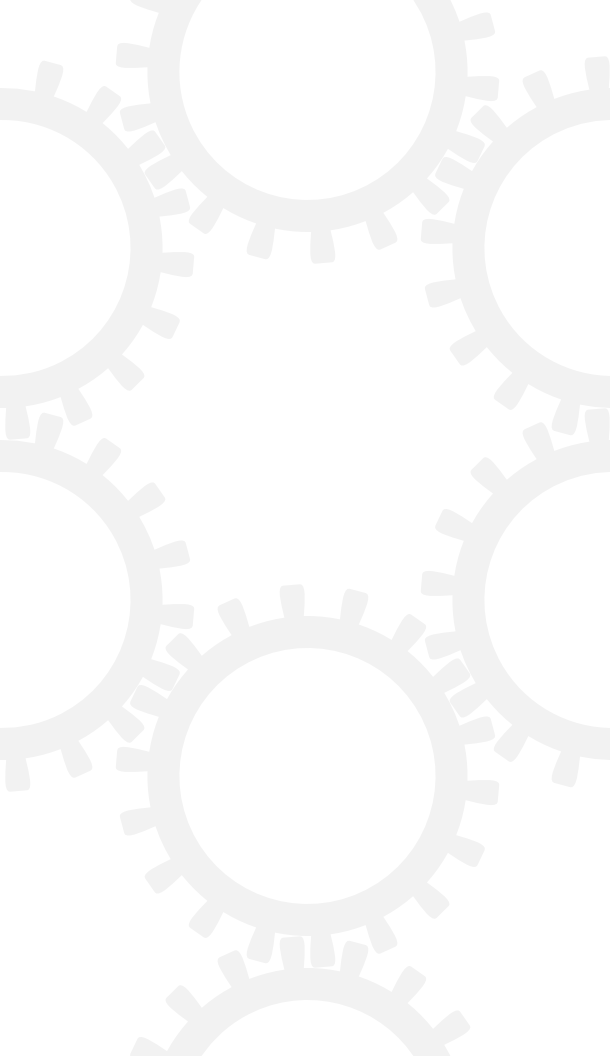
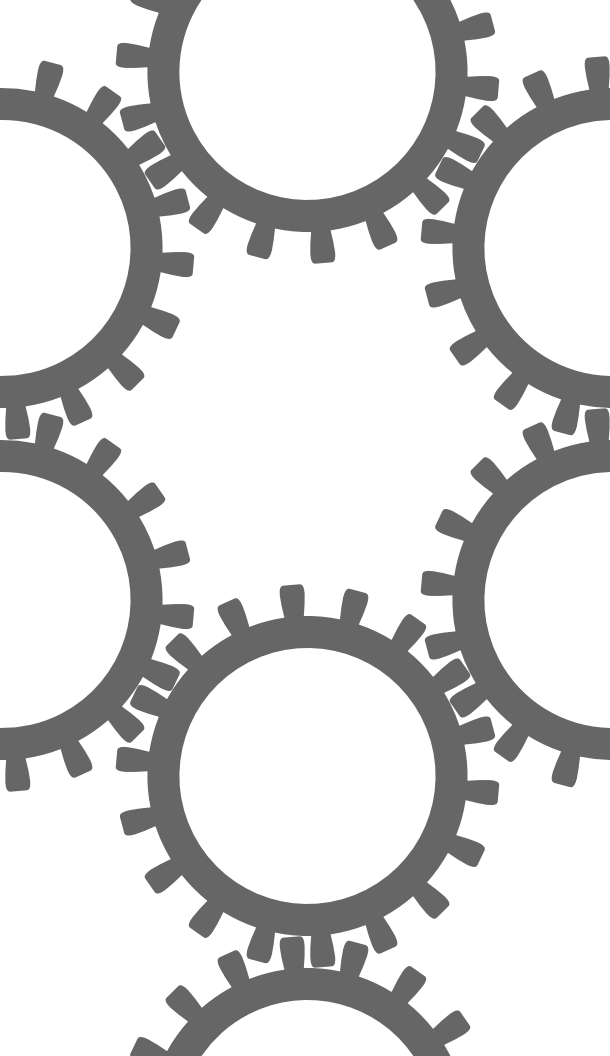
Large improvements made to the website, artwise and codewise.

Changed region(s): [[0.0, 0.0, 1.0, 1.0]]

diff --git a/website/main.html b/website/main.html
@@ -1,77 +1,110 @@
-<HTML>
-<HEAD>
-<STYLE TYPE="text/css">
-.tiled_bg {
-  background-image: url(res/images/gearcrate_webpage_bg.png); background-repeat: repeat;
-  background-attachment:fixed;}
-</STYLE>
-</HEAD>
-<BODY CLASS = "tiled_bg">
-<img src="images/gearcrate_logo128.png" alt="res/gearcrate.net"/>
-<p>Some text...</p>
-<p>Some text...</p>
-<p>Some text...</p>
-<p>Some text...</p>
-<p>Some text...</p>
-<p>Some text...</p>
-<p>Some text...</p>
-<p>Some text...</p>
-<p>Some text...</p>
-<p>Some text...</p>
-<p>Some text...</p>
-<p>Some text...</p>
-<p>Some text...</p>
-<p>Some text...</p>
-<p>Some text...</p>
-<p>Some text...</p>
-<p>Some text...</p>
-<p>Some text...</p>
-<p>Some text...</p>
-<p>Some text...</p>
-<p>Some text...</p>
-<p>Some text...</p>
-<p>Some text...</p>
-<p>Some text...</p>
-<p>Some text...</p>
-<p>Some text...</p>
-<p>Some text...</p>
-<p>Some text...</p>
-<p>Some text...</p>
-<p>Some text...</p>
-<p>Some text...</p>
-<p>Some text...</p>
-<p>Some text...</p>
-<p>Some text...</p>
-<p>Some text...</p>
-<p>Some text...</p>
-<p>Some text...</p>
-<p>Some text...</p>
-<p>Some text...</p>
-<p>Some text...</p>
-<p>Some text...</p>
-<p>Some text...</p>
-<p>Some text...</p>
-<p>Some text...</p>
-<p>Some text...</p>
-<p>Some text...</p>
-<p>Some text...</p>
-<p>Some text...</p>
-<p>Some text...</p>
-<p>Some text...</p>
-<p>Some text...</p>
-<p>Some text...</p>
-<p>Some text...</p>
-<p>Some text...</p>
-<p>Some text...</p>
-<p>Some text...</p>
-<p>Some text...</p>
-<p>Some text...</p>
-<p>Some text...</p>
-<p>Some text...</p>
-<p>Some text...</p>
-<p>Some text...</p>
-<p>Some text...</p>
-<p>Some text...</p>
-<p>Some text...</p>
-</BODY>
-</HTML>
+<html>
+<!This is a comment./>
+<head>
+    <link rel  = "stylesheet"
+          type = "text/css"
+          href = "style.css"/>
+</head>
+
+<body>
+    <div id = "container">
+        <div id="site_title">
+            <img src   = "res/images/gearcrate_logo128.png" 
+                 alt   = "res/images/gearcrate.net"
+                 style = "float:left"/>
+        </div>
+        
+        <div>
+            <ul class = "navbar">
+                <li><a href = "main.html">Home</a></li>
+                <li><a href = "about.html">About</a></li>
+                <li><a href = "faq.html">FAQ</a></li>
+            </ul>
+            
+            <div id = "content_area">
+                <p>The morning of June 27th was clear and sunny, with the fresh warmth of a full-summer day; the flowers were blossoming profusely and the grass was richly green. The people of the village began to gather in the square, between the post office and the bank, around ten o'clock; in some towns there were so many people that the lottery took two days and had to be started on June 2th. but in this village, where there were only about three hundred people, the whole lottery took less than two hours, so it could begin at ten o'clock in the morning and still be through in time to allow the villagers to get home for noon dinner.</p>
+                <p>The children assembled first, of course. School was recently over for the summer, and the feeling of liberty sat uneasily on most of them; they tended to gather together quietly for a while before they broke into boisterous play. and their talk was still of the classroom and the teacher, of books and reprimands. Bobby Martin had already stuffed his pockets full of stones, and the other boys soon followed his example, selecting the smoothest and roundest stones; Bobby and Harry Jones and Dickie Delacroix-- the villagers pronounced this name "Dellacroy"--eventually made a great pile of stones in one corner of the square and guarded it against the raids of the other boys. The girls stood aside, talking among themselves, looking over their shoulders at the boys. and the very small children rolled in the dust or clung to the hands of their older brothers or sisters.</p>
+                <p>Soon the men began to gather. surveying their own children, speaking of planting and rain, tractors and taxes. They stood together, away from the pile of stones in the corner, and their jokes were quiet and they smiled rather than laughed. The women, wearing faded house dresses and sweaters, came shortly after their menfolk. They greeted one another and exchanged bits of gossip as they went to join their husbands. Soon the women, standing by their husbands, began to call to their children, and the children came reluctantly, having to be called four or five times. Bobby Martin ducked under his mother's grasping hand and ran, laughing, back to the pile of stones. His father spoke up sharply, and Bobby came quickly and took his place between his father and his oldest brother.</p>
+                <p>The lottery was conducted--as were the square dances, the teen club, the Halloween program--by Mr. Summers. who had time and energy to devote to civic activities. He was a round-faced, jovial man and he ran the coal business, and people were sorry for him. because he had no children and his wife was a scold. When he arrived in the square, carrying the black wooden box, there was a murmur of conversation among the villagers, and he waved and called. "Little late today, folks." The postmaster, Mr. Graves, followed him, carrying a three- legged stool, and the stool was put in the center of the square and Mr. Summers set the black box down on it. The villagers kept their distance, leaving a space between themselves and the stool. and when Mr. Summers said, "Some of you fellows want to give me a hand?" there was a hesitation before two men. Mr. Martin and his oldest son, Baxter. came forward to hold the box steady on the stool while Mr. Summers stirred up the papers inside it.</p>
+                <p>The original paraphernalia for the lottery had been lost long ago, and the black box now resting on the stool had been put into use even before Old Man Warner, the oldest man in town, was born. Mr. Summers spoke frequently to the villagers about making a new box, but no one liked to upset even as much tradition as was represented by the black box. There was a story that the present box had been made with some pieces of the box that had preceded it, the one that had been constructed when the first people settled down to make a village here. Every year, after the lottery, Mr. Summers began talking again about a new box, but every year the subject was allowed to fade off without anything's being done. The black box grew shabbier each year: by now it was no longer completely black but splintered badly along one side to show the original wood color, and in some places faded or stained.</p>
+                <p>Mr. Martin and his oldest son, Baxter, held the black box securely on the stool until Mr. Summers had stirred the papers thoroughly with his hand. Because so much of the ritual had been forgotten or discarded, Mr. Summers had been successful in having slips of paper substituted for the chips of wood that had been used for generations. Chips of wood, Mr. Summers had argued. had been all very well when the village was tiny, but now that the population was more than three hundred and likely to keep on growing, it was necessary to use something that would fit more easily into he black box. The night before the lottery, Mr. Summers and Mr. Graves made up the slips of paper and put them in the box, and it was then taken to the safe of Mr. Summers' coal company and locked up until Mr. Summers was ready to take it to the square next morning. The rest of the year, the box was put way, sometimes one place, sometimes another; it had spent one year in Mr. Graves's barn and another year underfoot in the post office. and sometimes it was set on a shelf in the Martin grocery and left there.</p>
+                <p>There was a great deal of fussing to be done before Mr. Summers declared the lottery open. There were the lists to make up--of heads of families. heads of households in each family. members of each household in each family. There was the proper swearing-in of Mr. Summers by the postmaster, as the official of the lottery; at one time, some people remembered, there had been a recital of some sort, performed by the official of the lottery, a perfunctory. tuneless chant that had been rattled off duly each year; some people believed that the official of the lottery used to stand just so when he said or sang it, others believed that he was supposed to walk among the people, but years and years ago this p3rt of the ritual had been allowed to lapse. There had been, also, a ritual salute, which the official of the lottery had had to use in addressing each person who came up to draw from the box, but this also had changed with time, until now it was felt necessary only for the official to speak to each person approaching. Mr. Summers was very good at all this; in his clean white shirt and blue jeans. with one hand resting carelessly on the black box. he seemed very proper and important as he talked interminably to Mr. Graves and the Martins.</p>
+                <p>Just as Mr. Summers finally left off talking and turned to the assembled villagers, Mrs. Hutchinson came hurriedly along the path to the square, her sweater thrown over her shoulders, and slid into place in the back of the crowd. "Clean forgot what day it was," she said to Mrs. Delacroix, who stood next to her, and they both laughed softly. "Thought my old man was out back stacking wood," Mrs. Hutchinson went on. "and then I looked out the window and the kids was gone, and then I remembered it was the twenty-seventh and came a-running." She dried her hands on her apron, and Mrs. Delacroix said, "You're in time, though. They're still talking away up there."</p>
+                <p>Mrs. Hutchinson craned her neck to see through the crowd and found her husband and children standing near the front. She tapped Mrs. Delacroix on the arm as a farewell and began to make her way through the crowd. The people separated good-humoredly to let her through: two or three people said. in voices just loud enough to be heard across the crowd, "Here comes your, Missus, Hutchinson," and "Bill, she made it after all." Mrs. Hutchinson reached her husband, and Mr. Summers, who had been waiting, said cheerfully. "Thought we were going to have to get on without you, Tessie." Mrs. Hutchinson said. grinning, "Wouldn't have me leave m'dishes in the sink, now, would you. Joe?," and soft laughter ran through the crowd as the people stirred back into position after Mrs. Hutchinson's arrival.</p>
+                <p>"Well, now." Mr. Summers said soberly, "guess we better get started, get this over with, so's we can go back to work. Anybody ain't here?"</p>
+                <p>"Dunbar." several people said. "Dunbar. Dunbar."</p>
+                <p>Mr. Summers consulted his list. "Clyde Dunbar." he said. "That's right. He's broke his leg, hasn't he? Who's drawing for him?"</p>
+                <p>"Me. I guess," a woman said. and Mr. Summers turned to look at her. "Wife draws for her husband." Mr. Summers said. "Don't you have a grown boy to do it for you, Janey?" Although Mr. Summers and everyone else in the village knew the answer perfectly well, it was the business of the official of the lottery to ask such questions formally. Mr. Summers waited with an expression of polite interest while Mrs. Dunbar answered.</p>
+                <p>"Horace's not but sixteen vet." Mrs. Dunbar said regretfully. "Guess I gotta fill in for the old man this year."</p>
+                <p>"Right." Sr. Summers said. He made a note on the list he was holding. Then he asked, "Watson boy drawing this year?"</p>
+                <p>A tall boy in the crowd raised his hand. "Here," he said. "I m drawing for my mother and me." He blinked his eyes nervously and ducked his head as several voices in the crowd said thin#s like "Good fellow, lack." and "Glad to see your mother's got a man to do it."</p>
+                <p>"Well," Mr. Summers said, "guess that's everyone. Old Man Warner make it?"</p>
+                <p>"Here," a voice said. and Mr. Summers nodded.</p>
+                <p>A sudden hush fell on the crowd as Mr. Summers cleared his throat and looked at the list. "All ready?" he called. "Now, I'll read the names--heads of families first--and the men come up and take a paper out of the box. Keep the paper folded in your hand without looking at it until everyone has had a turn. Everything clear?"</p>
+                <p>The people had done it so many times that they only half listened to the directions: most of them were quiet. wetting their lips. not looking around. Then Mr. Summers raised one hand high and said, "Adams." A man disengaged himself from the crowd and came forward. "Hi. Steve." Mr. Summers said. and Mr. Adams said. "Hi. Joe." They grinned at one another humorlessly and nervously. Then Mr. Adams reached into the black box and took out a folded paper. He held it firmly by one corner as he turned and went hastily back to his place in the crowd. where he stood a little apart from his family. not looking down at his hand.</p>
+                <p>"Allen." Mr. Summers said. "Anderson.... Bentham."</p>
+                <p>"Seems like there's no time at all between lotteries any more." Mrs. Delacroix said to Mrs. Graves in the back row.</p>
+                <p>"Seems like we got through with the last one only last week."</p>
+                <p>"Time sure goes fast.-- Mrs. Graves said.</p>
+                <p>"Clark.... Delacroix"</p>
+                <p>"There goes my old man." Mrs. Delacroix said. She held her breath while her husband went forward.</p>
+                <p>"Dunbar," Mr. Summers said, and Mrs. Dunbar went steadily to the box while one of the women said. "Go on. Janey," and another said, "There she goes."</p>
+                <p>"We're next." Mrs. Graves said. She watched while Mr. Graves came around from the side of the box, greeted Mr. Summers gravely and selected a slip of paper from the box. By now, all through the crowd there were men holding the small folded papers in their large hand. turning them over and over nervously Mrs. Dunbar and her two sons stood together, Mrs. Dunbar holding the slip of paper.</p>
+                <p>"Harburt.... Hutchinson."</p>
+                <p>"Get up there, Bill," Mrs. Hutchinson said. and the people near her laughed.</p>
+                <p>"Jones."</p>
+                <p>"They do say," Mr. Adams said to Old Man Warner, who stood next to him, "that over in the north village they're talking of giving up the lottery."</p>
+                <p>Old Man Warner snorted. "Pack of crazy fools," he said. "Listening to the young folks, nothing's good enough for them. Next thing you know, they'll be wanting to go back to living in caves, nobody work any more, live hat way for a while. Used to be a saying about 'Lottery in June, corn be heavy soon.' First thing you know, we'd all be eating stewed chickweed and acorns. There's always been a lottery," he added petulantly. "Bad enough to see young Joe Summers up there joking with everybody."</p>
+                <p>"Some places have already quit lotteries." Mrs. Adams said.</p>
+                <p>"Nothing but trouble in that," Old Man Warner said stoutly. "Pack of young fools."</p>
+                <p>"Martin." And Bobby Martin watched his father go forward. "Overdyke.... Percy."</p>
+                <p>"I wish they'd hurry," Mrs. Dunbar said to her older son. "I wish they'd hurry."</p>
+                <p>"They're almost through," her son said.</p>
+                <p>"You get ready to run tell Dad," Mrs. Dunbar said.</p>
+                <p>Mr. Summers called his own name and then stepped forward precisely and selected a slip from the box. Then he called, "Warner."</p>
+                <p>"Seventy-seventh year I been in the lottery," Old Man Warner said as he went through the crowd. "Seventy-seventh time."</p>
+                <p>"Watson" The tall boy came awkwardly through the crowd. Someone said, "Don't be nervous, Jack," and Mr. Summers said, "Take your time, son."</p>
+                <p>"Zanini."</p>
+                <p>After that, there was a long pause, a breathless pause, until Mr. Summers. holding his slip of paper in the air, said, "All right, fellows." For a minute, no one moved, and then all the slips of paper were opened. Suddenly, all the women began to speak at once, saving. "Who is it?," "Who's got it?," "Is it the Dunbars?," "Is it the Watsons?" Then the voices began to say, "It's Hutchinson. It's Bill," "Bill Hutchinson's got it."</p>
+                <p>"Go tell your father," Mrs. Dunbar said to her older son.</p>
+                <p>People began to look around to see the Hutchinsons. Bill Hutchinson was standing quiet, staring down at the paper in his hand. Suddenly. Tessie Hutchinson shouted to Mr. Summers. "You didn't give him time enough to take any paper he wanted. I saw you. It wasn't fair!"</p>
+                <p>"Be a good sport, Tessie." Mrs. Delacroix called, and Mrs. Graves said, "All of us took the same chance."</p>
+                <p>"Shut up, Tessie," Bill Hutchinson said.</p>
+                <p>"Well, everyone," Mr. Summers said, "that was done pretty fast, and now we've got to be hurrying a little more to get done in time." He consulted his next list. "Bill," he said, "you draw for the Hutchinson family. You got any other households in the Hutchinsons?"</p>
+                <p>"There's Don and Eva," Mrs. Hutchinson yelled. "Make them take their chance!"</p>
+                <p>"Daughters draw with their husbands' families, Tessie," Mr. Summers said gently. "You know that as well as anyone else."</p>
+                <p>"It wasn't fair," Tessie said.</p>
+                <p>"I guess not, Joe." Bill Hutchinson said regretfully. "My daughter draws with her husband's family; that's only fair. And I've got no other family except the kids."</p>
+                <p>"Then, as far as drawing for families is concerned, it's you," Mr. Summers said in explanation, "and as far as drawing for households is concerned, that's you, too. Right?"</p>
+                <p>"Right," Bill Hutchinson said.</p>
+                <p>"How many kids, Bill?" Mr. Summers asked formally.</p>
+                <p>"Three," Bill Hutchinson said.</p>
+                <p>"There's Bill, Jr., and Nancy, and little Dave. And Tessie and me."</p>
+                <p>"All right, then," Mr. Summers said. "Harry, you got their tickets back?"</p>
+                <p>Mr. Graves nodded and held up the slips of paper. "Put them in the box, then," Mr. Summers directed. "Take Bill's and put it in."</p>
+                <p>"I think we ought to start over," Mrs. Hutchinson said, as quietly as she could. "I tell you it wasn't fair. You didn't give him time enough to choose. Everybody saw that."</p>
+                <p>Mr. Graves had selected the five slips and put them in the box. and he dropped all the papers but those onto the ground. where the breeze caught them and lifted them off.</p>
+                <p>"Listen, everybody," Mrs. Hutchinson was saying to the people around her.</p>
+                <p>"Ready, Bill?" Mr. Summers asked. and Bill Hutchinson, with one quick glance around at his wife and children. nodded.</p>
+                <p>"Remember," Mr. Summers said. "take the slips and keep them folded until each person has taken one. Harry, you help little Dave." Mr. Graves took the hand of the little boy, who came willingly with him up to the box. "Take a paper out of the box, Davy." Mr. Summers said. Davy put his hand into the box and laughed. "Take just one paper." Mr. Summers said. "Harry, you hold it for him." Mr. Graves took the child's hand and removed the folded paper from the tight fist and held it while little Dave stood next to him and looked up at him wonderingly.</p>
+                <p>"Nancy next," Mr. Summers said. Nancy was twelve, and her school friends breathed heavily as she went forward switching her skirt, and took a slip daintily from the box "Bill, Jr.," Mr. Summers said, and Billy, his face red and his feet overlarge, near knocked the box over as he got a paper out. "Tessie," Mr. Summers said. She hesitated for a minute, looking around defiantly. and then set her lips and went up to the box. She snatched a paper out and held it behind her.</p>
+                <p>"Bill," Mr. Summers said, and Bill Hutchinson reached into the box and felt around, bringing his hand out at last with the slip of paper in it.</p>
+                <p>The crowd was quiet. A girl whispered, "I hope it's not Nancy," and the sound of the whisper reached the edges of the crowd.</p>
+                <p>"It's not the way it used to be." Old Man Warner said clearly. "People ain't the way they used to be."</p>
+                <p>"All right," Mr. Summers said. "Open the papers. Harry, you open little Dave's."</p>
+                <p>Mr. Graves opened the slip of paper and there was a general sigh through the crowd as he held it up and everyone could see that it was blank. Nancy and Bill. Jr.. opened theirs at the same time. and both beamed and laughed. turning around to the crowd and holding their slips of paper above their heads.</p>
+                <p>"Tessie," Mr. Summers said. There was a pause, and then Mr. Summers looked at Bill Hutchinson, and Bill unfolded his paper and showed it. It was blank.</p>
+                <p>"It's Tessie," Mr. Summers said, and his voice was hushed. "Show us her paper. Bill."</p>
+                <p>Bill Hutchinson went over to his wife and forced the slip of paper out of her hand. It had a black spot on it, the black spot Mr. Summers had made the night before with the heavy pencil in the coal company office. Bill Hutchinson held it up, and there was a stir in the crowd.</p>
+                <p>"All right, folks." Mr. Summers said. "Let's finish quickly."</p>
+                <p>Although the villagers had forgotten the ritual and lost the original black box, they still remembered to use stones. The pile of stones the boys had made earlier was ready; there were stones on the ground with the blowing scraps of paper that had come out of the box Delacroix selected a stone so large she had to pick it up with both hands and turned to Mrs. Dunbar. "Come on," she said. "Hurry up."</p>
+                <p>Mr. Dunbar had small stones in both hands, and she said. gasping for breath. "I can't run at all. You'll have to go ahead and I'll catch up with you."</p>
+                <p>The children had stones already. And someone gave little Davy Hutchinson few pebbles.</p>
+                <p>Tessie Hutchinson was in the center of a cleared space by now, and she held her hands out desperately as the villagers moved in on her. "It isn't fair," she said. A stone hit her on the side of the head. Old Man Warner was saying, "Come on, come on, everyone." Steve Adams was in the front of the crowd of villagers, with Mrs. Graves beside him.</p>
+                <p>"It isn't fair, it isn't right," Mrs. Hutchinson screamed, and then they were upon her. </p>
+            </div>
+        </div>
+    </div>
+</body>
+
+</html>

diff --git a/website/style.css b/website/style.css
@@ -1,117 +1,75 @@
-body {
-background-color:#333333;
-font-size:10pt;
-font-family:Arial;
-margin:0;
-padding:0;
-color:#FFFFFF;
+body {
+  background-image      : url(res/images/gearcrate_webpage_bg.png);
+  background-repeat     : repeat;
+  background-attachment : fixed;
+  text-align            : center;
+  padding               : 32px;
+  margin                : 0px;
+  min-width             : 800px;
+  font-family           : verdana;
 }
 
-#page {
-width:900px;
-background-image:url(images/page.png);
-margin:auto;
-padding:auto;
+div#container{
+  margin : 0px 0px;
+  text-align : left;
+  padding    : 16px;
+  background-color : rgb(240, 240, 240);
+  background-color : rgba(255, 255, 255, 0.95);
+  border-style : solid;
+  border-color : rgb(102, 102, 102);
+  border-width : 8px;
 }
 
-#header {
-clear:both;
-width:860px;
-height:100px;
-background-image:url(images/header.png);
-padding-top:30px;
-padding-left:40px;
+div#site_title{
+  display:block;
+  margin-left:auto;
+  margin-right:auto;
+  height: 128px;
+  padding-bottom: 16px;
+  border-bottom-color : rgb(102, 102, 102);
+  border-bottom-style : solid;
+  border-bottom-width : 2px;
 }
 
-#menulinks {
-clear:both;
-width:875px;
-height:46px;
-padding-left:25px;
-background-image:url(images/menulinks.png);
+ul.navbar{
+  float : left;
+  text-align : left;
+  width      : 128px;
+  height     : 300px;
+  padding: 0px;
+  margin: 0px;
 }
 
-  
-#menulinks a {
-	padding-left:15px;
-	padding-right:15px;
-	padding-top:12px;
-	height:29px;
-   background-image:none;
-	display:block;
-	color:#FFFFFF;
-	text-decoration:none;
-	float:left;
-	font-size:14px;
-	font-weight:bold;
-	margin-right:3px;
-  }
-  
-  
-#menulinks a:hover, #menulinks a.active {
-	background-image:url(images/menuhover.png);
-	background-position:top left;
-	text-decoration:none;
-	color:#FFFFFF;
+ul.navbar li{
+  display:block;
+  font-size: 16px;
+  font-weight:normal;
+  padding: 0px;
+  border-bottom-color : rgb(102, 102, 102);
+  border-bottom-style : solid;
+  border-bottom-width : 2px;
+  height: 32px;
+  width: inherit;
+  list-style : none;
 }
 
-#mainarea {
-width:860px;
-clear:both;
-padding-left:50px;
+ul.navbar li a{
+  text-decoration:none;
 }
 
-#contentarea {
-width:515px;
-padding-right:30px;
-padding-bottom:20px;
-float:left;
-line-height:14pt;
+ul.navbar li a:hover{
+  background-color: rgb(240, 240, 240);
+  text-decoration:none;
 }
 
-#sidebar {
-float:left;
-width:265px;
-background-image:url(images/sidebartop.png);
-background-repeat:no-repeat;
-line-height:14pt;
+div#content_area{
+  margin : 0px;
+  padding : 0px 16px;
+  border-bottom-color : rgb(102, 102, 102);
+  border-bottom-style : solid;
+  border-bottom-width : 2px;
 }
 
-#footer {
-width:900px;
-clear:both;
-height:35px;
-padding-top:22px;
-text-align:center;
-line-height:14pt;
-background-image:url(images/footer.png);
-background-repeat:no-repeat;
-background-color:#000000;
-}
-
-h1 {
-font-size:25pt;
-color:#FFFFFF;
-margin:0;
-}
-
-h2 {
-font-size:15pt;
-color:#FFFFFF;
-padding-top:6px;
-}
-
-.description {
-font-size:14pt;
-color:#CCCCCC;
-margin:0;
-}
-
-a {
-color:#FFFFCC;
-text-decoration:none;
-}
-
-a:hover {
-text-decoration:underline;
+ul.navbar + div#content_area{
+  margin-left : 128px;
 }
